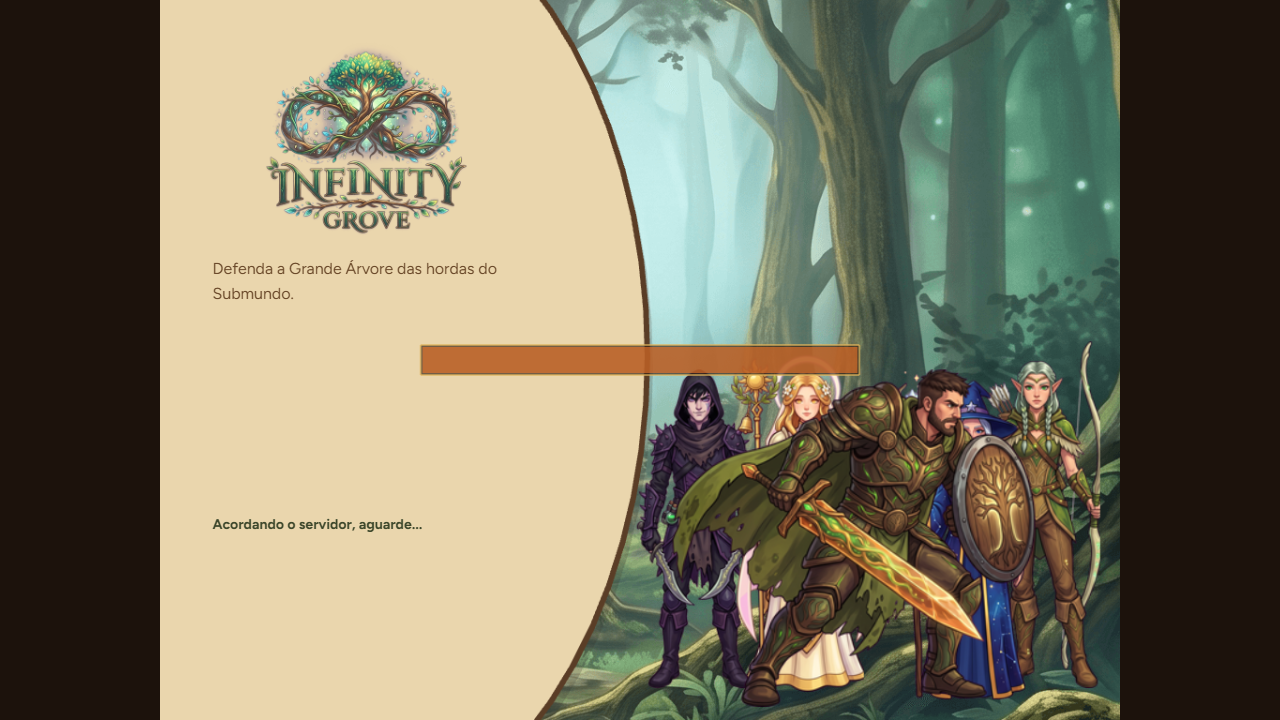
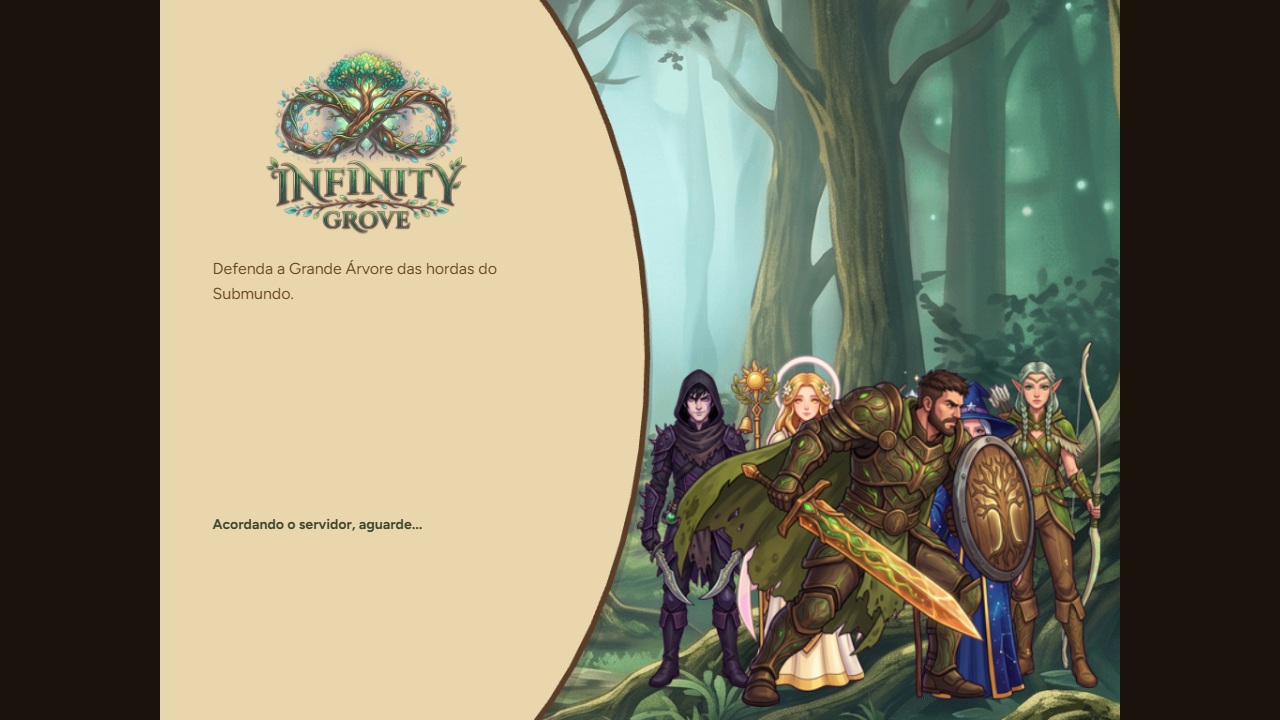
docs(review): review the start screen while the server wakes up

Changed region(s): [[0.3125, 0.4583, 0.6875, 0.5194]]

diff --git a/.specs/features/supabase-postgres/ui-review.html b/.specs/features/supabase-postgres/ui-review.html
@@ -1,0 +1,220 @@
+<!doctype html>
+<html lang="pt-BR">
+<head>
+<meta charset="utf-8">
+<meta name="viewport" content="width=device-width, initial-scale=1">
+<title>Revisão de UI · Aviso de espera do servidor na tela inicial</title>
+<link rel="preconnect" href="https://fonts.googleapis.com">
+<link rel="preconnect" href="https://fonts.gstatic.com" crossorigin>
+<link rel="stylesheet" href="https://fonts.googleapis.com/css2?family=Caprasimo&family=Figtree:wght@400;600;700&display=swap">
+<style>
+/* The Organic look of game/public/style.css: cream rounded panels over the forest, Caprasimo for titles,
+   terracotta for actions and alerts, sage for what passes. */
+:root {
+    --forest: #272e1b;
+    --forest-2: #3d472b;
+    --bg: #f5ead8;
+    --surface: #ebddc5;
+    --panel: #f9f4ed;
+    --text: #201e1d;
+    --muted: #645c50;
+    --line: color-mix(in srgb, #201e1d 16%, transparent);
+    --accent: #c67139;
+    --accent-dark: #8c491a;
+    --accent-soft: #ffe1d0;
+    --sage: #728157;
+    --sage-dark: #3d472b;
+    --sage-soft: #e1eecc;
+    --amber: #a3621b;
+    --amber-soft: #fff2eb;
+    --font-heading: "Caprasimo", system-ui, sans-serif;
+    --font-body: "Figtree", system-ui, sans-serif;
+    --radius-md: 16px;
+    --radius-lg: 28px;
+    --shadow-md: 0 3px 10px color-mix(in srgb, #2e2b25 16%, transparent);
+    --shadow-lg: 0 12px 32px color-mix(in srgb, #2e2b25 30%, transparent);
+}
+* { box-sizing: border-box; }
+body {
+    margin: 0;
+    padding: 32px 16px 64px;
+    color: var(--text);
+    background: radial-gradient(1200px 600px at 50% -10%, var(--forest-2), var(--forest)) fixed;
+    font: 15px/1.55 var(--font-body);
+}
+main { max-width: 1040px; margin: 0 auto; display: grid; gap: 20px; }
+.panel { background: var(--bg); border-radius: var(--radius-lg); box-shadow: var(--shadow-lg); padding: 24px 28px; }
+h1, h2, h3 { font-family: var(--font-heading); font-weight: 400; margin: 0; line-height: 1.2; }
+h1 { font-size: 34px; }
+h2 { font-size: 22px; margin-bottom: 14px; }
+h3 { font-size: 17px; }
+p { margin: 0 0 10px; }
+code { font-family: ui-monospace, Consolas, monospace; font-size: 13px; background: var(--surface); padding: 1px 6px; border-radius: 6px; }
+.brand { color: var(--sage-soft); font-family: var(--font-heading); font-size: 15px; letter-spacing: .04em; text-align: center; }
+.head { display: flex; flex-wrap: wrap; align-items: center; justify-content: space-between; gap: 12px 20px; }
+.meta { color: var(--muted); margin-top: 6px; }
+.chip { display: inline-block; padding: 3px 12px; border-radius: 999px; font-weight: 700; font-size: 13px; white-space: nowrap; }
+.verdict { font-family: var(--font-heading); font-weight: 400; font-size: 18px; padding: 8px 20px; }
+.ok { background: var(--sage); color: var(--panel); }
+.changes { background: var(--accent); color: var(--panel); }
+.sev-alta { background: var(--accent-dark); color: var(--panel); }
+.sev-media { background: var(--accent-soft); color: var(--accent-dark); }
+.sev-baixa { background: var(--sage-soft); color: var(--sage-dark); }
+.vp { background: var(--surface); color: var(--muted); }
+.stats { display: grid; grid-template-columns: repeat(auto-fit, minmax(150px, 1fr)); gap: 12px; }
+.stat { background: var(--panel); border-radius: var(--radius-md); box-shadow: var(--shadow-md); padding: 14px 16px; }
+.stat .n { font-family: var(--font-heading); font-size: 30px; font-variant-numeric: tabular-nums; }
+.stat .l { color: var(--muted); font-size: 13px; }
+ul.checks { list-style: none; padding: 0; margin: 0; display: grid; gap: 8px; }
+ul.checks li { background: var(--panel); border-radius: 12px; padding: 10px 14px; display: flex; gap: 10px; align-items: baseline; }
+ul.checks li .mark { font-weight: 700; }
+ul.checks li.yes .mark { color: var(--sage); }
+ul.checks li.no .mark { color: var(--accent-dark); }
+.shots { display: grid; grid-template-columns: repeat(auto-fill, minmax(300px, 1fr)); gap: 16px; }
+.shots.phone { grid-template-columns: repeat(auto-fill, minmax(180px, 1fr)); }
+figure { margin: 0; background: var(--panel); border-radius: var(--radius-md); box-shadow: var(--shadow-md); overflow: hidden; display: flex; flex-direction: column; }
+figure a { display: block; background: var(--forest); }
+figure img { display: block; width: 100%; height: auto; }
+figcaption { padding: 10px 14px 12px; display: grid; gap: 6px; }
+figcaption .t { font-weight: 700; }
+figcaption .d { color: var(--muted); font-size: 13px; }
+figcaption .tags { display: flex; flex-wrap: wrap; gap: 6px; }
+.screen + .screen { margin-top: 22px; }
+.screen h3 { margin-bottom: 10px; }
+.finding { background: var(--panel); border-radius: var(--radius-md); box-shadow: var(--shadow-md); padding: 16px 18px; display: grid; grid-template-columns: 1fr 200px; gap: 16px; }
+.finding + .finding { margin-top: 14px; }
+.finding .top { display: flex; flex-wrap: wrap; gap: 8px; align-items: center; margin-bottom: 8px; }
+.finding dl { margin: 0; display: grid; grid-template-columns: 110px 1fr; gap: 4px 12px; }
+.finding dt { color: var(--muted); font-size: 13px; font-weight: 600; }
+.finding dd { margin: 0; }
+.finding img { width: 100%; border-radius: 10px; display: block; }
+.empty { color: var(--muted); font-style: italic; }
+footer { color: var(--sage-soft); text-align: center; font-size: 13px; opacity: .8; }
+@media (max-width: 640px) {
+    .panel { padding: 20px 18px; border-radius: 22px; }
+    h1 { font-size: 27px; }
+    .finding { grid-template-columns: 1fr; }
+    .finding dl { grid-template-columns: 1fr; }
+}
+</style>
+</head>
+<body>
+<main>
+    <div class="brand">Infinity Grove · Revisão de UI</div>
+
+    <section class="panel">
+        <div class="head">
+            <div>
+                <h1>Aviso de espera do servidor na tela inicial</h1>
+                <div class="meta">
+                    <code>.specs/features/supabase-postgres</code> · commits <code>da171ee</code> · 2026-11-16 · local (vite + backend falso, /api/health atrasado 20 s)
+                </div>
+            </div>
+                        <span class="chip verdict ok">APROVADO</span>
+        </div>
+        <p style="margin-top:16px">O aviso <code>Acordando o servidor, aguarde...</code> aparece no espaço da mensagem do oval de pergaminho, em uma linha, no estilo verde-musgo (não de erro), com contraste 6,90:1, sem sobrepor nada, e o formulário aparece depois com a mensagem vazia. O console está limpo nos dois tamanhos. Há um achado médio (texto pequeno no celular, herdado da escala do jogo); ele não bloqueia a aprovação.</p>
+        <div class="stats">
+            <div class="stat"><div class="n">2</div><div class="l">telas e estados verificados</div></div>
+            <div class="stat"><div class="n">4</div><div class="l">capturas (desktop + celular)</div></div>
+            <div class="stat"><div class="n">0</div><div class="l">achados de severidade alta</div></div>
+            <div class="stat"><div class="n">1</div><div class="l">achados médios e baixos</div></div>
+        </div>
+    </section>
+
+    <section class="panel">
+        <h2>Fidelidade à spec</h2>
+        <ul class="checks">
+            <li class="yes"><span class="mark">✓</span><span>O aviso diz exatamente “Acordando o servidor, aguarde...” (três pontos, sem reticências), item 1 do T13 <code>RUN-06 AC 3</code></span></li>
+            <li class="yes"><span class="mark">✓</span><span>Fica no espaço da mensagem do oval (.auth-message, x 230 y 560 do canvas), em uma linha de cerca de 223 px dentro dos 340 px, no desktop e no celular, item 2 <code>RUN-06 AC 3</code></span></li>
+            <li class="yes"><span class="mark">✓</span><span>Usa o estilo sem erro: 15 px, peso 700, cor verde-musgo #3d472b (accent-2-800), não ember-800, item 3 <code>RUN-06 AC 3</code></span></li>
+            <li class="yes"><span class="mark">✓</span><span>Contraste do texto #3d472b sobre o pergaminho #ead6ad: 6,90:1, acima de 4,5:1 (o texto de erro #8a3510 daria 5,67:1), item 4 <code>RUN-06</code></span></li>
+            <li class="yes"><span class="mark">✓</span><span>Nada o cobre: logo, frase (y 300) e o grupo de heróis ficam nos lugares, item 5 <code>RUN-06</code></span></li>
+            <li class="yes"><span class="mark">✓</span><span>Depois da espera o formulário aparece e a mensagem fica vazia (02-form-after-wake), item 6 <code>RUN-06 AC 4</code></span></li>
+            <li class="yes"><span class="mark">✓</span><span>Relatório de console dos dois projetos: clean (o aviso GPU stall due to ReadPixels do Chromium é filtrado como ambiental), item 7 <code>RUN-06</code></span></li>
+        </ul>
+    </section>
+
+    <section class="panel">
+        <h2>Capturas</h2>
+                <div class="screen">
+            <h3>Tela inicial: servidor acordando</h3>
+            <div class="shots">
+                <figure>
+                    <a href="ui-review/01-wake-notice-desktop.png" target="_blank"><img src="ui-review/01-wake-notice-desktop.png" alt="Aviso de espera" loading="lazy"></a>
+                    <figcaption>
+                        <span class="t">Aviso de espera</span>
+                        <span class="d">Com 2 s ou mais sem resposta de /api/health: o aviso verde-musgo no espaço da mensagem, formulário ainda oculto.</span>
+                        <span class="tags"><span class="chip vp">Desktop 1280×720</span><span class="chip ok">ok</span></span>
+                    </figcaption>
+                </figure>
+            </div>
+            <div class="shots phone" style="margin-top:16px">
+                <figure>
+                    <a href="ui-review/01-wake-notice-phone.png" target="_blank"><img src="ui-review/01-wake-notice-phone.png" alt="Aviso de espera" loading="lazy"></a>
+                    <figcaption>
+                        <span class="t">Aviso de espera</span>
+                        <span class="d">O mesmo estado no celular: a linha cabe, mas o texto fica minúsculo.</span>
+                        <span class="tags"><span class="chip vp">Celular 390×844</span><span class="chip sev-media">achado #1</span></span>
+                    </figcaption>
+                </figure>
+            </div>
+        </div>
+        <div class="screen">
+            <h3>Tela inicial: depois da espera</h3>
+            <div class="shots">
+                <figure>
+                    <a href="ui-review/02-form-after-wake-desktop.png" target="_blank"><img src="ui-review/02-form-after-wake-desktop.png" alt="Formulário depois da espera" loading="lazy"></a>
+                    <figcaption>
+                        <span class="t">Formulário depois da espera</span>
+                        <span class="d">O /api/health respondeu: usuário, senha e botões; a mensagem está vazia.</span>
+                        <span class="tags"><span class="chip vp">Desktop 1280×720</span><span class="chip ok">ok</span></span>
+                    </figcaption>
+                </figure>
+            </div>
+            <div class="shots phone" style="margin-top:16px">
+                <figure>
+                    <a href="ui-review/02-form-after-wake-phone.png" target="_blank"><img src="ui-review/02-form-after-wake-phone.png" alt="Formulário depois da espera" loading="lazy"></a>
+                    <figcaption>
+                        <span class="t">Formulário depois da espera</span>
+                        <span class="d">O mesmo estado no celular, sem sobras do aviso.</span>
+                        <span class="tags"><span class="chip vp">Celular 390×844</span><span class="chip ok">ok</span></span>
+                    </figcaption>
+                </figure>
+            </div>
+        </div>
+    </section>
+
+    <section class="panel">
+        <h2>Achados</h2>
+                        <article class="finding">
+            <div>
+                <div class="top"><span class="chip sev-media">#1 · Média</span><strong>Texto do aviso minúsculo no celular</strong></div>
+                <dl>
+                    <dt>Tela</dt><dd>Tela inicial, aviso de espera (celular 390×844)</dd>
+                    <dt>O que está errado</dt><dd>O canvas de 1024 px é reduzido a 390 px (escala 0,38), então os 15 px do aviso viram cerca de 6 px na tela, quase ilegíveis. É a única informação da tela enquanto o servidor acorda. A frase de apresentação sofre o mesmo: é uma limitação antiga da escala do jogo, não do aviso.</dd>
+                    <dt>Como deveria ficar</dt><dd>Aviso legível no celular, com pelo menos cerca de 11 px efetivos: por exemplo, aumentar o <code>font-size</code> de <code>.auth-message</code> em <code>@media (max-width: 640px)</code> (mantendo uma linha em 340 px ou permitindo duas linhas).</dd>
+                    <dt>Arquivo</dt><dd><code>game/public/style.css</code> (<code>.auth-message</code>, linhas 324-341)</dd>
+                </dl>
+            </div>
+            <a href="ui-review/01-wake-notice-phone.png" target="_blank"><img src="ui-review/01-wake-notice-phone.png" alt="Captura do achado #1"></a>
+        </article>
+            </section>
+
+    <section class="panel">
+        <h2>Sugestões</h2>
+                <ul class="checks">
+            <li><span class="mark">✦</span><span>O aviso fica cerca de 230 px abaixo da frase, onde ficarão o formulário e os botões; funciona, mas parece solto. Se quiser, subir a mensagem para logo abaixo da frase (decisão do dono, a spec fixa y 560).</span></li>
+            <li><span class="mark">✦</span><span>Uma pista de movimento (por exemplo, pontos que pulsam) mostraria que o jogo continua vivo durante uma espera de até 60 s; hoje o texto é estático.</span></li>
+            <li><span class="mark">✦</span><span>O script das capturas agora espera o Preloader sair e atrasa o /api/health em 20 s: no Chromium sem GPU a transição de 1 s do Preloader fica lenta, e a barra de carregamento laranja aparecia sobre a tela nas primeiras capturas. Em jogo real ela some em 1 s, não é defeito do aviso.</span></li>
+        </ul>
+    </section>
+
+    <section class="panel">
+        <h2>Console e recursos</h2>
+                <p class="empty">Nenhum erro nem recurso faltando: relatório clean nos dois projetos (o aviso GPU stall due to ReadPixels, ambiental, é filtrado pelo script).</p>
+    </section>
+
+    <footer>Revisão do ui-artist · 2026-11-16</footer>
+</main>
+</body>
+</html>

diff --git a/game/ui-review/supabasePostgres.shots.js b/game/ui-review/supabasePostgres.shots.js
@@ -3,7 +3,7 @@ import { mockBackend } from '../e2e/support/fakeBackend';
 import { shot } from './support/shots';
 
 //  Screenshots of the backend wake-up review (.specs/features/supabase-postgres/ui-review/): the start screen while GET /api/health
-//  takes 8 s, then the form. Everything runs on the fake backend; the wake-up answer is the only stubbed route.
+//  takes 20 s (a headless run fades the Preloader slowly), then the form. Everything runs on the fake backend; the wake-up answer is the only stubbed route.
 const WAKE = 'Acordando o servidor, aguarde...';
 
 //  Chromium's GPU process warns about ReadPixels when a headless screenshot reads the canvas; it is not a page problem (see the other review reports)
@@ -32,18 +32,22 @@ const watch = (page) => {
 const report = (testInfo, label, problems) => console.log(`CONSOLE-REPORT ${label} (${testInfo.project.name}): ${problems.length ? problems.join(' | ') : 'clean'}`);
 
 test('start screen while the server wakes up', async ({ page }, testInfo) => {
+    test.setTimeout(60000);
     const problems = watch(page);
 
-    await mockBackend(page, { healthDelayMs: 8000 });
+    await mockBackend(page, { healthDelayMs: 20000 });
     await page.goto('/');
     await page.waitForFunction(() => window.__PHASER_GAME__?.registry.has('highscore'));
     await page.locator('#game-container canvas').click();
 
     await expect(page.getByRole('alert')).toHaveText(WAKE, { timeout: 5000 });
     await page.mouse.move(0, 0);
+    //  The Preloader fades out for 1 s over MainMenu; shoot only after it is gone (same wait as openMainMenu)
+    await page.waitForFunction(() => !window.__PHASER_GAME__.scene.isActive('Preloader'), null, { timeout: 10000 });
+    await expect(page.getByRole('alert')).toHaveText(WAKE);
     await shot(page, testInfo, '01-wake-notice');
 
-    await expect(page.locator('.auth-form')).toBeVisible({ timeout: 15000 });
+    await expect(page.locator('.auth-form')).toBeVisible({ timeout: 30000 });
     await shot(page, testInfo, '02-form-after-wake');
     report(testInfo, 'start screen', problems);
 });

diff --git a/.specs/features/supabase-postgres/tasks.md b/.specs/features/supabase-postgres/tasks.md
@@ -1538,7 +1538,7 @@ followed by the rest of the current method unchanged (from `//  Scene may have b
 
 ---
 
-### T13: UI review of the wake-up notice [ ]
+### T13: UI review of the wake-up notice [x]
 
 **Owner**: ui-artist
 **What**: Review the start screen while the server wakes up and after, on desktop and phone, and write the report (RUN-06; spec US-5 AC 2 to 4).
@@ -1566,8 +1566,8 @@ followed by the rest of the current method unchanged (from `//  Scene may have b
 **Gate**: `.specs/features/supabase-postgres/ui-review.html` exists, names the verdict and links the four PNGs.
 **Done when**:
 
-- [ ] Each of the 7 items has a result and a screenshot in the report.
-- [ ] Every finding is listed with the exact change it asks for; `product-owner` turns findings into tasks before the Verifier.
+- [x] Each of the 7 items has a result and a screenshot in the report.
+- [x] Every finding is listed with the exact change it asks for; `product-owner` turns findings into tasks before the Verifier.
 
 **Commit**: `docs(review): review the start screen while the server wakes up`
 
